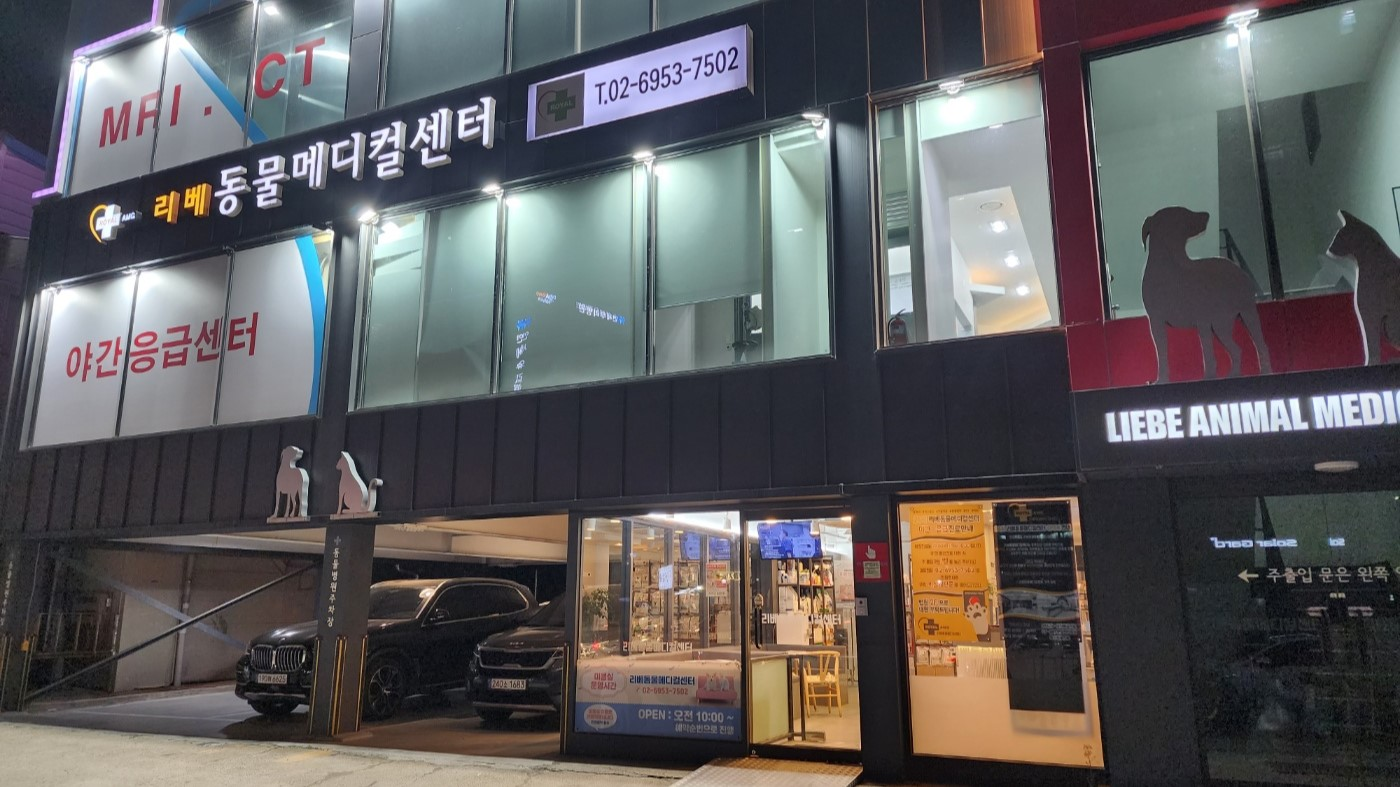
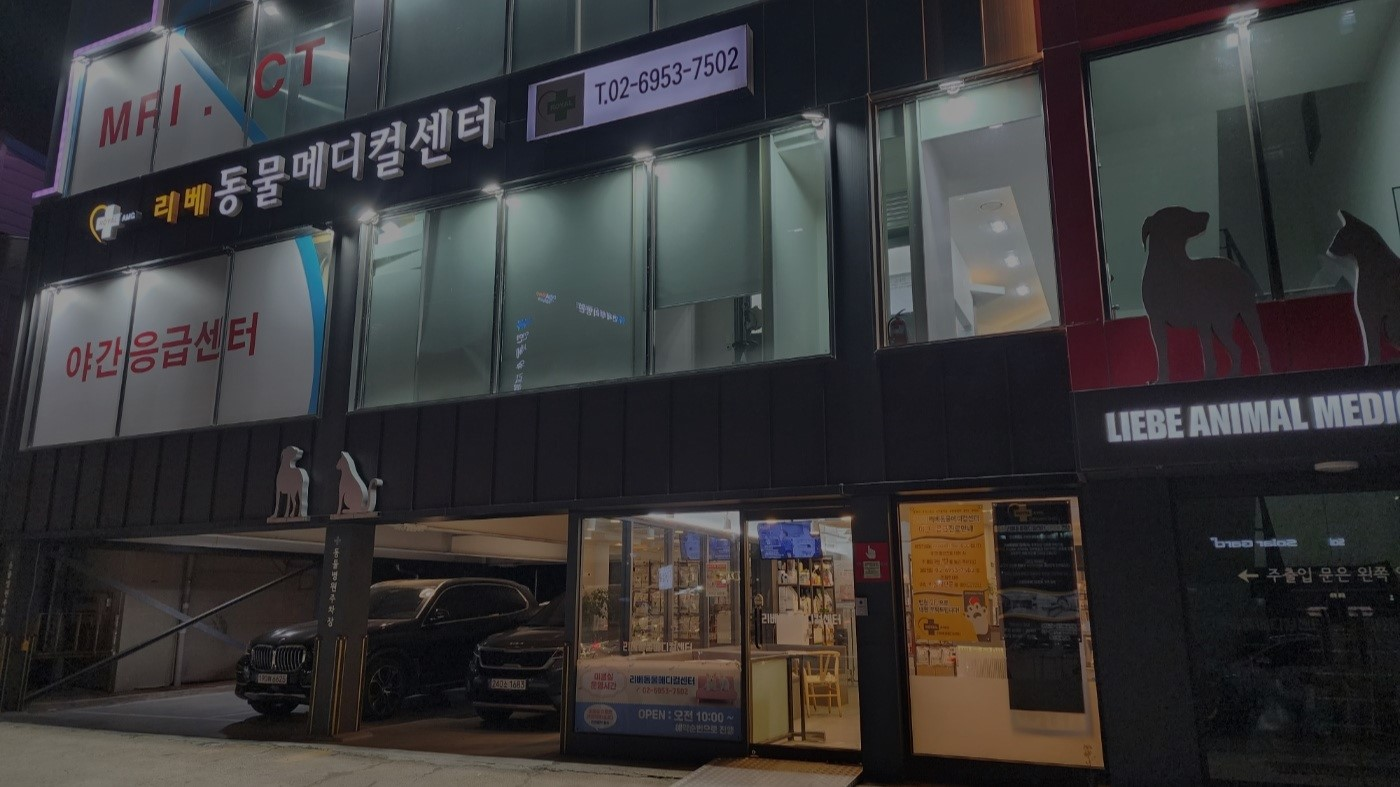
navbar.1
- navbar compoenent
- change font to nato_sans
- scroll to cetain id section feature
- set accent color
- set favicon.ico
- adjust brightness of slide photos

diff --git a/src/components/navbar.tsx b/src/components/navbar.tsx
@@ -1,7 +1,94 @@
+'use client';
+
+import Image from 'next/image';
+import Container from '@/components/container';
+import { useEffect, useState } from 'react';
+
+const NAV_ITEMS = [
+  {
+    label: '인사말',
+    href: '/#salute',
+  },
+  {
+    label: '진료과목',
+    href: '/#subject',
+  },
+  {
+    label: '수의사소개',
+    href: '/#staff',
+  },
+  {
+    label: '시설안내',
+    href: '/#facility',
+  },
+  {
+    label: '오시는길',
+    href: '/#map',
+  },
+];
+
 export default function Navbar() {
+  const [navbarStyle, setNavbarStyle] = useState('transparent');
+
+  useEffect(() => {
+    const handleScroll = () => {
+      if (window.scrollY > 50) {
+        setNavbarStyle('#555');
+      } else {
+        setNavbarStyle('transparent');
+      }
+    };
+    window.addEventListener('scroll', handleScroll);
+    return () => {
+      window.removeEventListener('scroll', handleScroll);
+    };
+  }, []);
+
   return (
-    <header className="fixed bg-transparent w-full h-[50px] shadow text-center z-50">
-      Navbar
+    <header
+      className="fixed w-full h-[70px] shadow z-50 flex items-center"
+      style={{
+        backgroundColor: navbarStyle,
+        transition: 'background-color 500ms ease',
+      }}
+    >
+      <Container>
+        <div className="flex justify-between items-center">
+          {/* 로고 */}
+          <a className="flex items-center gap-2" href="/#carousel">
+            <Image src="/logo.png" alt="logo" width={60} height={60} />
+            <div className="flex flex-col text-xl font-bold items-center">
+              <h2 className="text-white tracking-wide">
+                <span className="bg-accent px-1 rounded-sm">24시</span> LIEBE
+                AMC
+              </h2>
+              <h1 className="text-white">리베동물메디컬센터</h1>
+            </div>
+          </a>
+
+          {/* 메뉴 */}
+          <nav>
+            <ul className="text-white flex gap-10">
+              {NAV_ITEMS.map((item) => (
+                <li key={item.label}>
+                  <a
+                    href={item.href}
+                    className="hover:text-accent hover:font-bold transition duration-200"
+                  >
+                    {item.label}
+                  </a>
+                </li>
+              ))}
+            </ul>
+          </nav>
+
+          {/* 시간 & 전화 */}
+          <div className="text-white font-bold flex flex-col items-center bg-red-500 px-1 rounded-sm">
+            <h3>연중무휴 24시 진료</h3>
+            <h3>02 6953 7502 </h3>
+          </div>
+        </div>
+      </Container>
     </header>
   );
 }

diff --git a/src/app/globals.css b/src/app/globals.css
@@ -25,7 +25,7 @@
     --secondary: 210 40% 96.1%;
     --secondary-foreground: 222.2 47.4% 11.2%;
 
-    --accent: 210 40% 96.1%;
+    --accent: 210, 100%, 33%;
     --accent-foreground: 222.2 47.4% 11.2%;
 
     --destructive: 0 100% 50%;
@@ -83,7 +83,8 @@
 html,
 body {
   scroll-snap-type: y mandatory;
-  scroll-padding-top: 50px;
+  scroll-padding-top: 70px;
+  scroll-behavior: smooth;
 }
 
 section {
@@ -93,15 +94,16 @@ section {
   scroll-snap-stop: always;
 }
 
+/* 스크롤바 */
 ::-webkit-scrollbar {
   width: 0.5rem;
 }
 ::-webkit-scrollbar-track {
-  background-color: #eee;
-}
-::-webkit-scrollbar-thumb {
   background-color: #333;
 }
+::-webkit-scrollbar-thumb {
+  background-color: #eee;
+}
 ::-webkit-scrollbar-thumb:hover {
-  background-color: #bbb;
+  background-color: #0054a7;
 }

diff --git a/src/app/layout.tsx b/src/app/layout.tsx
@@ -1,12 +1,15 @@
 import Navbar from '@/components/navbar';
 import './globals.css';
-import { Inter } from 'next/font/google';
+import { Noto_Sans_KR } from 'next/font/google';
 import Footer from '@/components/footer';
 
-const inter = Inter({ subsets: ['latin'] });
+const notoSansKR = Noto_Sans_KR({
+  weight: ['400', '700', '900'],
+  subsets: ['latin'],
+});
 
 export const metadata = {
-  title: 'Create Next App',
+  title: '리베동물병원',
   description: 'Generated by create next app',
 };
 
@@ -17,7 +20,7 @@ export default function RootLayout({
 }) {
   return (
     <html lang="en">
-      <body className={inter.className}>
+      <body className={notoSansKR.className}>
         <Navbar />
         {children}
         <Footer />

diff --git a/src/sections/a_carousel.tsx b/src/sections/a_carousel.tsx
@@ -1,8 +1,8 @@
-import Slides from '@/components/Slides';
+import Slides from '@/components/slides';
 
 export default function Carousel() {
   return (
-    <section className="h-screen overflow-hidden">
+    <section className="h-screen overflow-hidden" id="carousel">
       <Slides />
     </section>
   );

diff --git a/src/sections/e_facility.tsx b/src/sections/e_facility.tsx
@@ -1,3 +1,7 @@
 export default function Facility() {
-  return <section className="h-screen bg-orange-200">Facility</section>;
+  return (
+    <section className="h-screen bg-orange-200" id="facility">
+      Facility
+    </section>
+  );
 }

diff --git a/src/sections/c_subjects.tsx b/src/sections/c_subjects.tsx
@@ -1,3 +1,7 @@
 export default function Subjects() {
-  return <section className="h-screen bg-blue-200">Subjects</section>;
+  return (
+    <section className="h-screen bg-blue-200" id="subject">
+      Subjects
+    </section>
+  );
 }

diff --git a/src/sections/d_staff.tsx b/src/sections/d_staff.tsx
@@ -1,3 +1,7 @@
 export default function Staff() {
-  return <section className="h-screen bg-purple-200">Staffs</section>;
+  return (
+    <section className="h-screen bg-purple-200" id="staff">
+      Staffs
+    </section>
+  );
 }

diff --git a/src/sections/b_salute.tsx b/src/sections/b_salute.tsx
@@ -1,3 +1,7 @@
 export default function Salute() {
-  return <section className="h-screen bg-teal-200">Salute</section>;
+  return (
+    <section className="h-screen bg-teal-200" id="salute">
+      Salute
+    </section>
+  );
 }

diff --git a/src/sections/f_map.tsx b/src/sections/f_map.tsx
@@ -1,3 +1,7 @@
 export default function Map() {
-  return <section className="h-screen bg-amber-200">Map</section>;
+  return (
+    <section className="h-screen bg-amber-200" id="map">
+      Map
+    </section>
+  );
 }

diff --git a/src/components/container.tsx b/src/components/container.tsx
@@ -1,0 +1,3 @@
+export default function Container({ children }: { children: React.ReactNode }) {
+  return <div className="container">{children}</div>;
+}

diff --git a/README.md b/README.md
@@ -1,34 +1,5 @@
-This is a [Next.js](https://nextjs.org/) project bootstrapped with [`create-next-app`](https://github.com/vercel/next.js/tree/canary/packages/create-next-app).
+# 해야할 일
 
-## Getting Started
-
-First, run the development server:
-
-```bash
-npm run dev
-# or
-yarn dev
-# or
-pnpm dev
-```
-
-Open [http://localhost:3000](http://localhost:3000) with your browser to see the result.
-
-You can start editing the page by modifying `app/page.tsx`. The page auto-updates as you edit the file.
-
-This project uses [`next/font`](https://nextjs.org/docs/basic-features/font-optimization) to automatically optimize and load Inter, a custom Google Font.
-
-## Learn More
-
-To learn more about Next.js, take a look at the following resources:
-
-- [Next.js Documentation](https://nextjs.org/docs) - learn about Next.js features and API.
-- [Learn Next.js](https://nextjs.org/learn) - an interactive Next.js tutorial.
-
-You can check out [the Next.js GitHub repository](https://github.com/vercel/next.js/) - your feedback and contributions are welcome!
-
-## Deploy on Vercel
-
-The easiest way to deploy your Next.js app is to use the [Vercel Platform](https://vercel.com/new?utm_medium=default-template&filter=next.js&utm_source=create-next-app&utm_campaign=create-next-app-readme) from the creators of Next.js.
-
-Check out our [Next.js deployment documentation](https://nextjs.org/docs/deployment) for more details.
+- [ ] SEO, meta data
+- [ ] 반응형
+- [ ] 섹션 인디케이터
